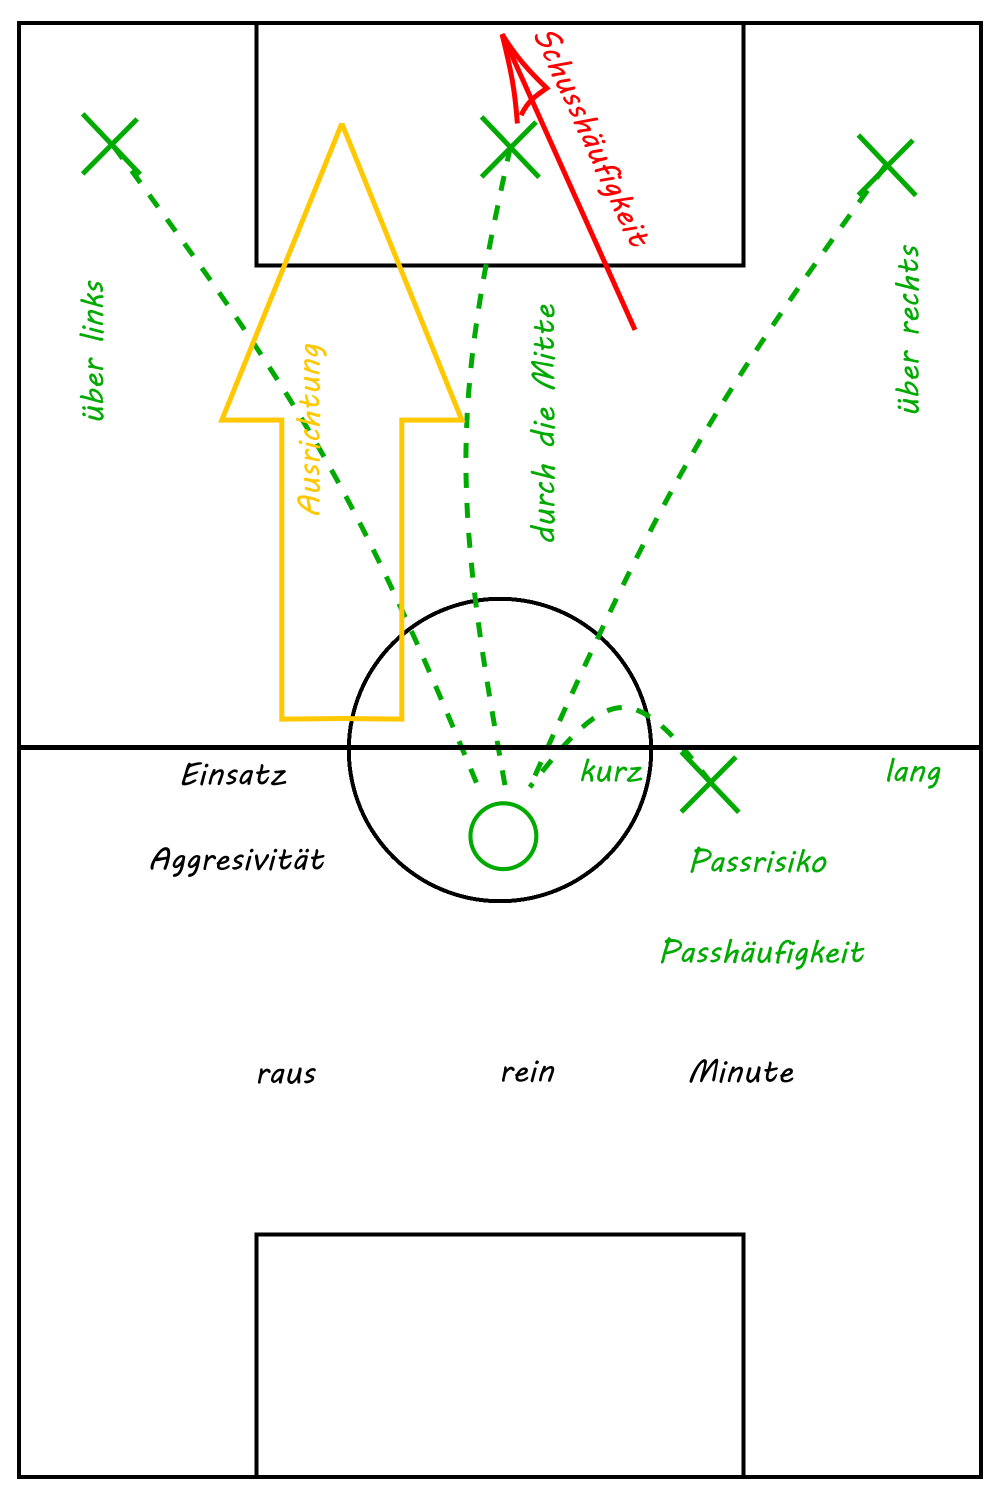
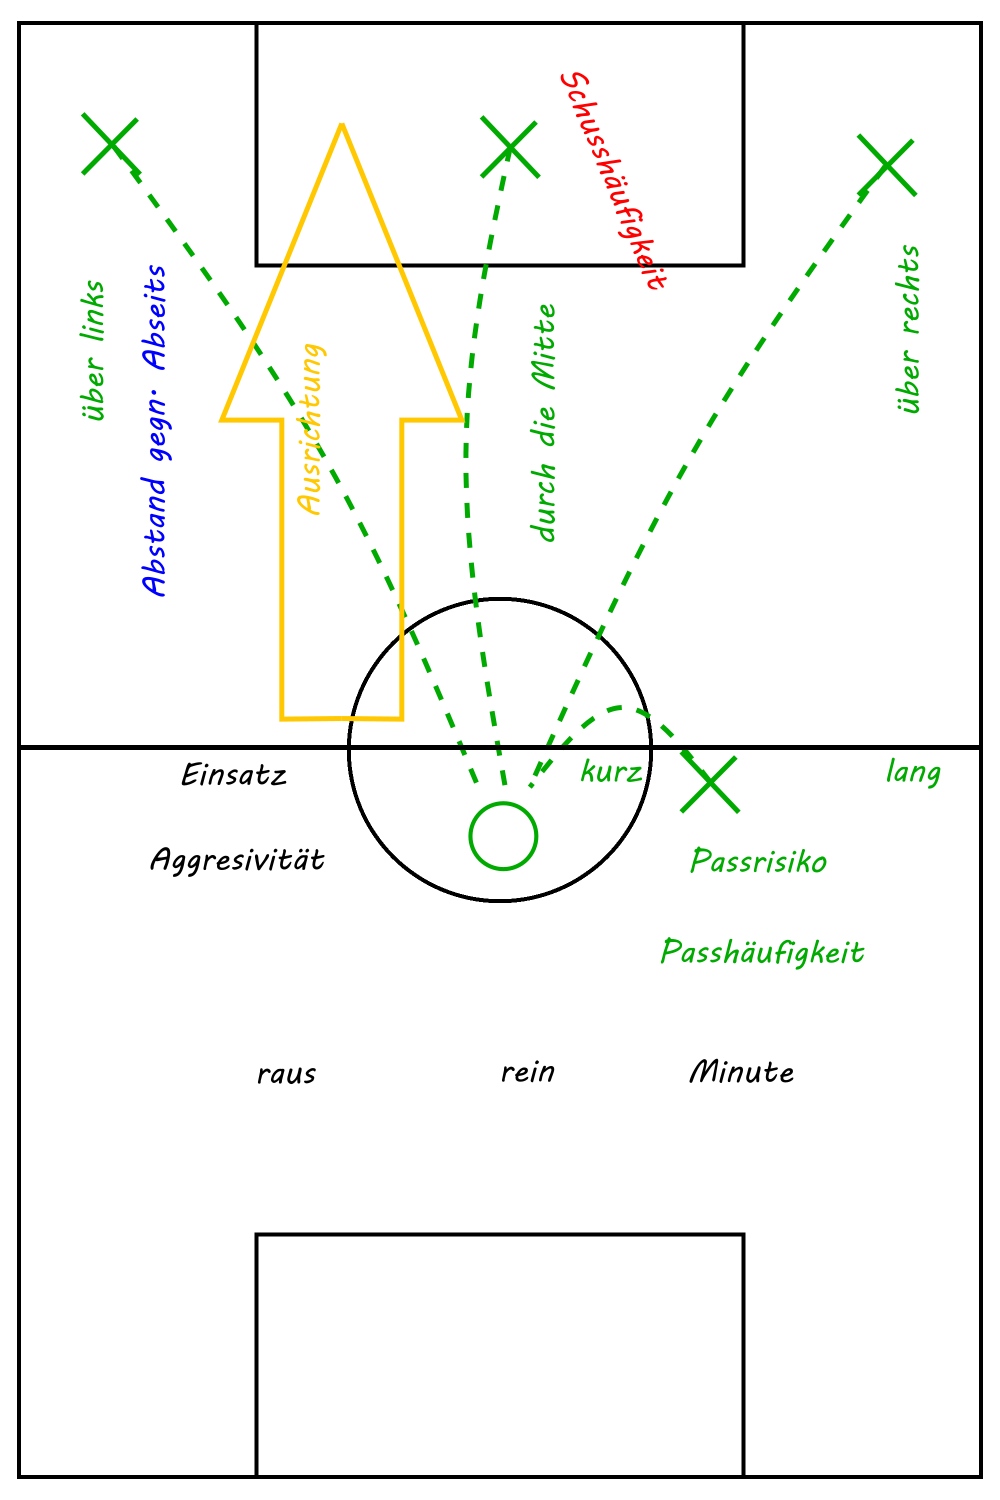
Update tactic view

diff --git a/Controllers/MemberController.cs b/Controllers/MemberController.cs
@@ -2517,6 +2517,24 @@ namespace CornerkickWebMvc.Controllers
       return Json(fRet, JsonRequestBehavior.AllowGet);
     }
 
+    public ActionResult TacticSetOffsite(bool bOffsite)
+    {
+      CornerkickManager.User usr = ckUser();
+      CornerkickManager.Club clb = ckClub();
+      if (clb == null) return Json(false, JsonRequestBehavior.AllowGet);
+
+      clb.tactic.bOffsite = bOffsite;
+
+      if (usr.game != null) {
+        if (!usr.game.data.bFinished) {
+          if      (usr.game.data.team[0].iTeamId == clb.iId) usr.game.data.team[0].tc = clb.tactic;
+          else if (usr.game.data.team[1].iTeamId == clb.iId) usr.game.data.team[1].tc = clb.tactic;
+        }
+      }
+
+      return Json(null, JsonRequestBehavior.AllowGet);
+    }
+
     public ActionResult setStandards(int iStandard, int iIndexPlayer)
     {
       CornerkickManager.User usr = ckUser();
